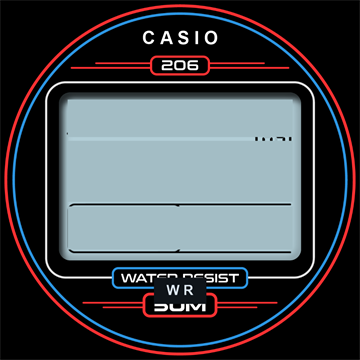
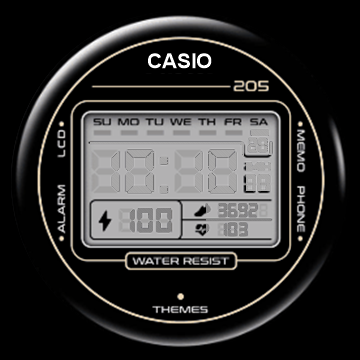
Actualizar Casio Classic al diseno vintage FASTER 205 Gold and Black con logotipo CASIO

diff --git a/README.md b/README.md
@@ -91,10 +91,14 @@ Diseño ultralimpio sobre fondo negro puro AMOLED (`#000000`) con píxeles físi
 
 ---
 
-### 7. Casio Classic A158W / F-91W (Vintage Alarm Chrono)
+### 7. Casio Classic Vintage 205 Gold & Black (Port Vintage Retro)
 - **Directorio:** [`tizen-native-casio-classic/`](tizen-native-casio-classic/)
 - **Slot Nativo:** `com.samsung.watchface-noblesse-a5`
 - **Nombre en Reloj:** `Casio Classic`
+- **Características:**
+  - **Diseño Vintage FASTER 205:** Dial negro brillante con anillos dorados de alta precisión, logotipo vintage **CASIO** en blanco centrado en la parte superior, línea y denominación `205` en oro, e indicador de protección `WATER RESIST` dorado.
+  - **Pantalla LCD Multifunción:** Hora digital 7 segmentos nítida en formato 12h/24h, segundos en tiempo real, día del mes en recuadro dedicado, nivel de batería con ícono de rayo (`⚡`), contador de pasos diarios con silueta de calzado deportivo (`👟`) y pulsaciones cardíacas BPM con corazón (`❤`).
+  - **AOD Ultraeficiente:** Modo Always-On Display sobre negro AMOLED absoluto con líneas tenues en oro cepillado y bajo consumo (<8% OPR).
 
 ---
 
@@ -105,7 +109,7 @@ Diseño ultralimpio sobre fondo negro puro AMOLED (`#000000`) con píxeles físi
 - **Características:**
   - **Números en la orilla:** Horas del 1 al 12 nítidas y legibles a lo largo del anillo perimetral exterior con sombra suave.
   - **Engranajes a triple velocidad (3x):** Todos los 7 engranajes mecánicos internos (barrilete, rueda central, tren de escape, volante tourbillon) giran al triple de velocidad para un efecto visual dinámico e hipnótico, sin afectar en absoluto la precisión de la hora de las manecillas.
-  - **Manecillas deportivas de alta visibilidad:** En fucsia vibrante con centro luminiscente y segundero continuo a 60 fps.
+  - **Manecillas de alta relojería:** En oro King Gold 18K con centro luminiscente Super-LumiNova blanco y segundero continuo a 60 fps (sin tonos rosas).
   - **AOD ultralimpio:** Manecillas flotantes luminiscentes sobre negro absoluto.
 
 ---
